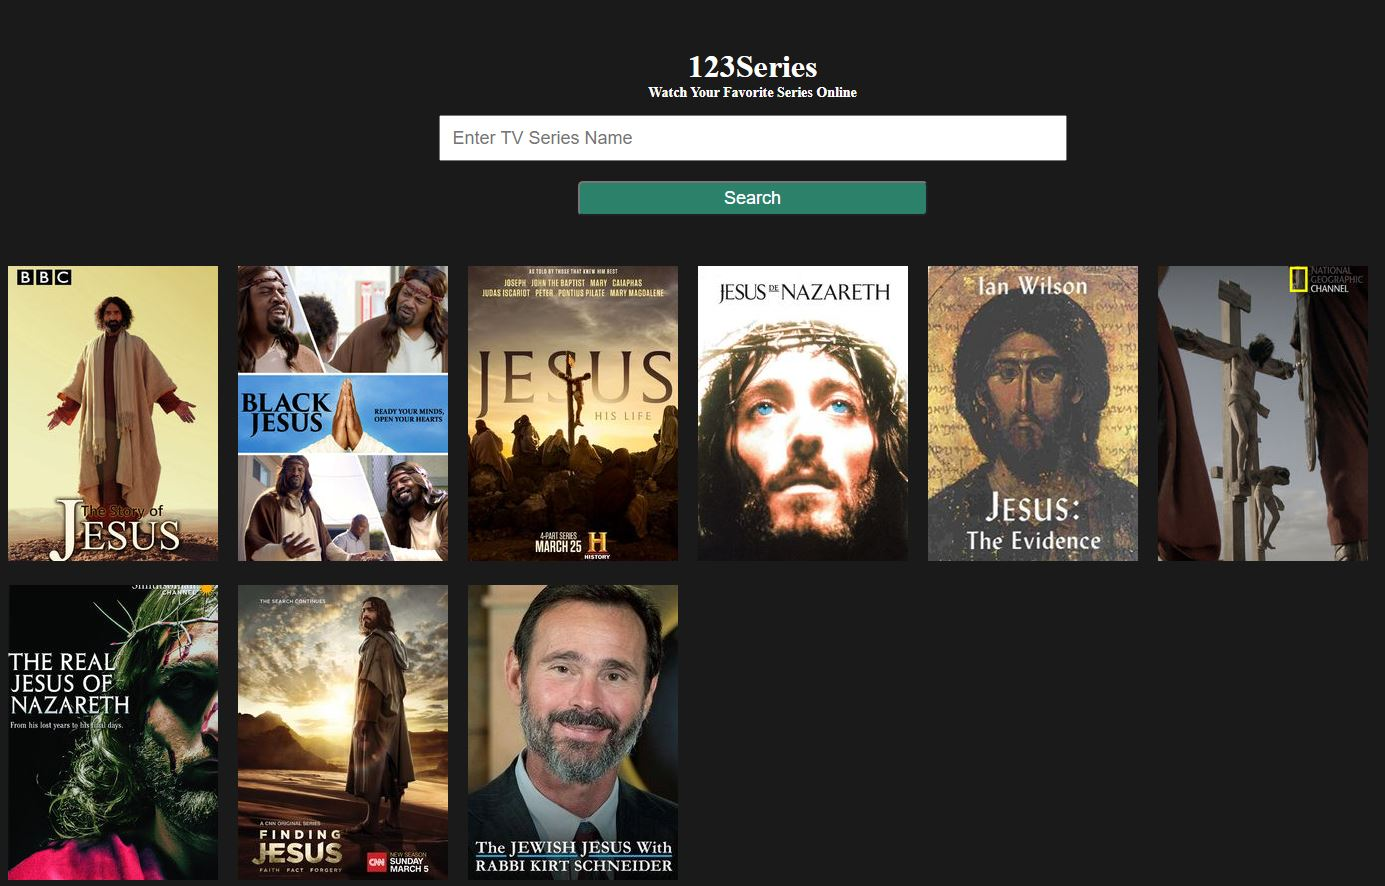
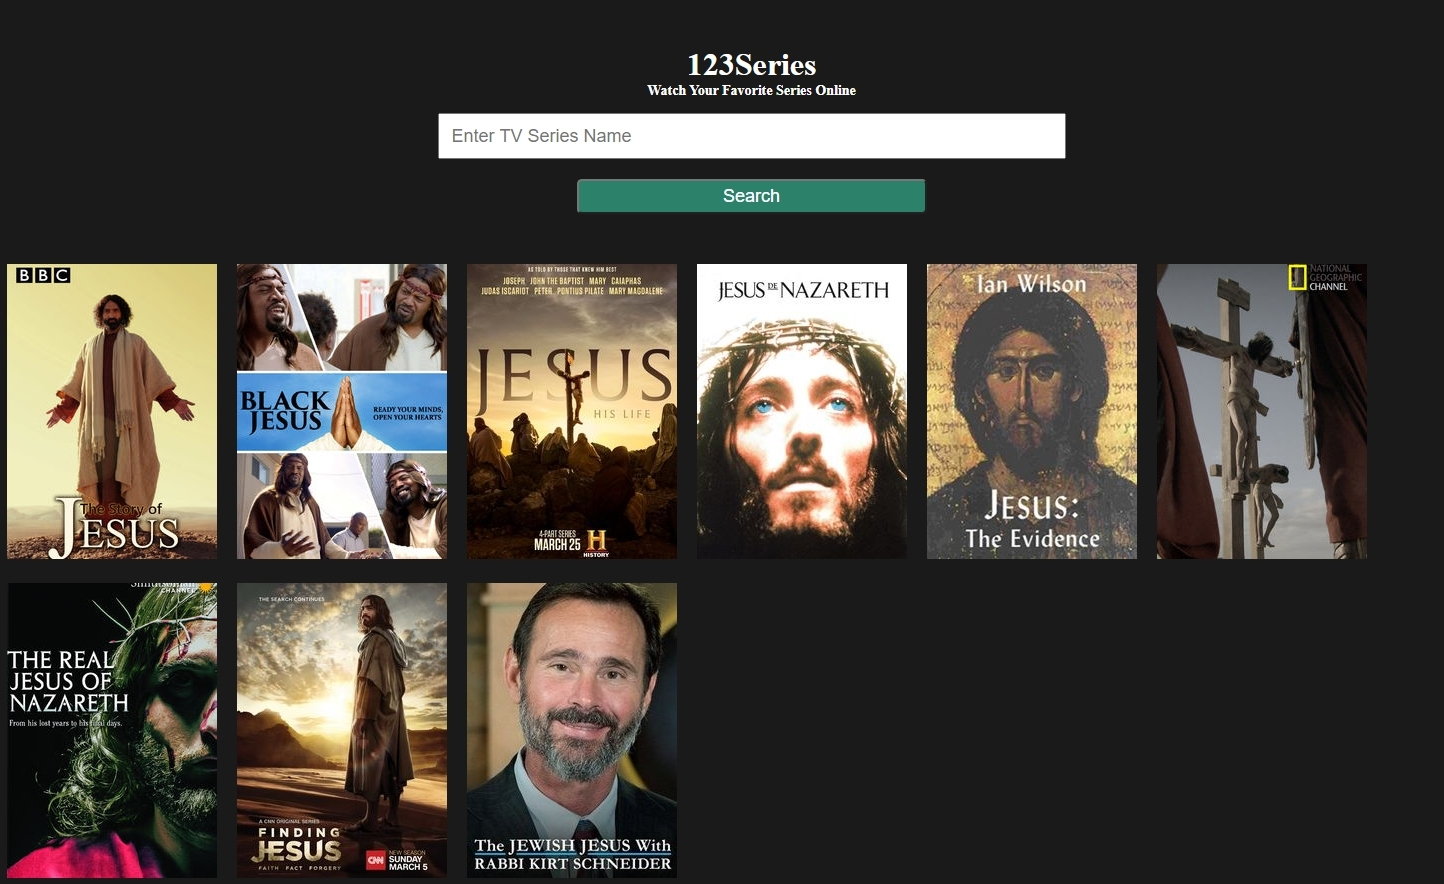
anchor tag

Changed region(s): [[0.0, 0.2749, 0.9935, 1.0], [0.2794, 0.0611, 0.7762, 0.2443], [0.0, 0.2749, 0.0621, 0.336]]

diff --git a/README.md b/README.md
@@ -1,1 +1,2 @@
-![](tvseries.JPG)
+
+<a href = "![](tvseries.JPG)" target = "_blank">
